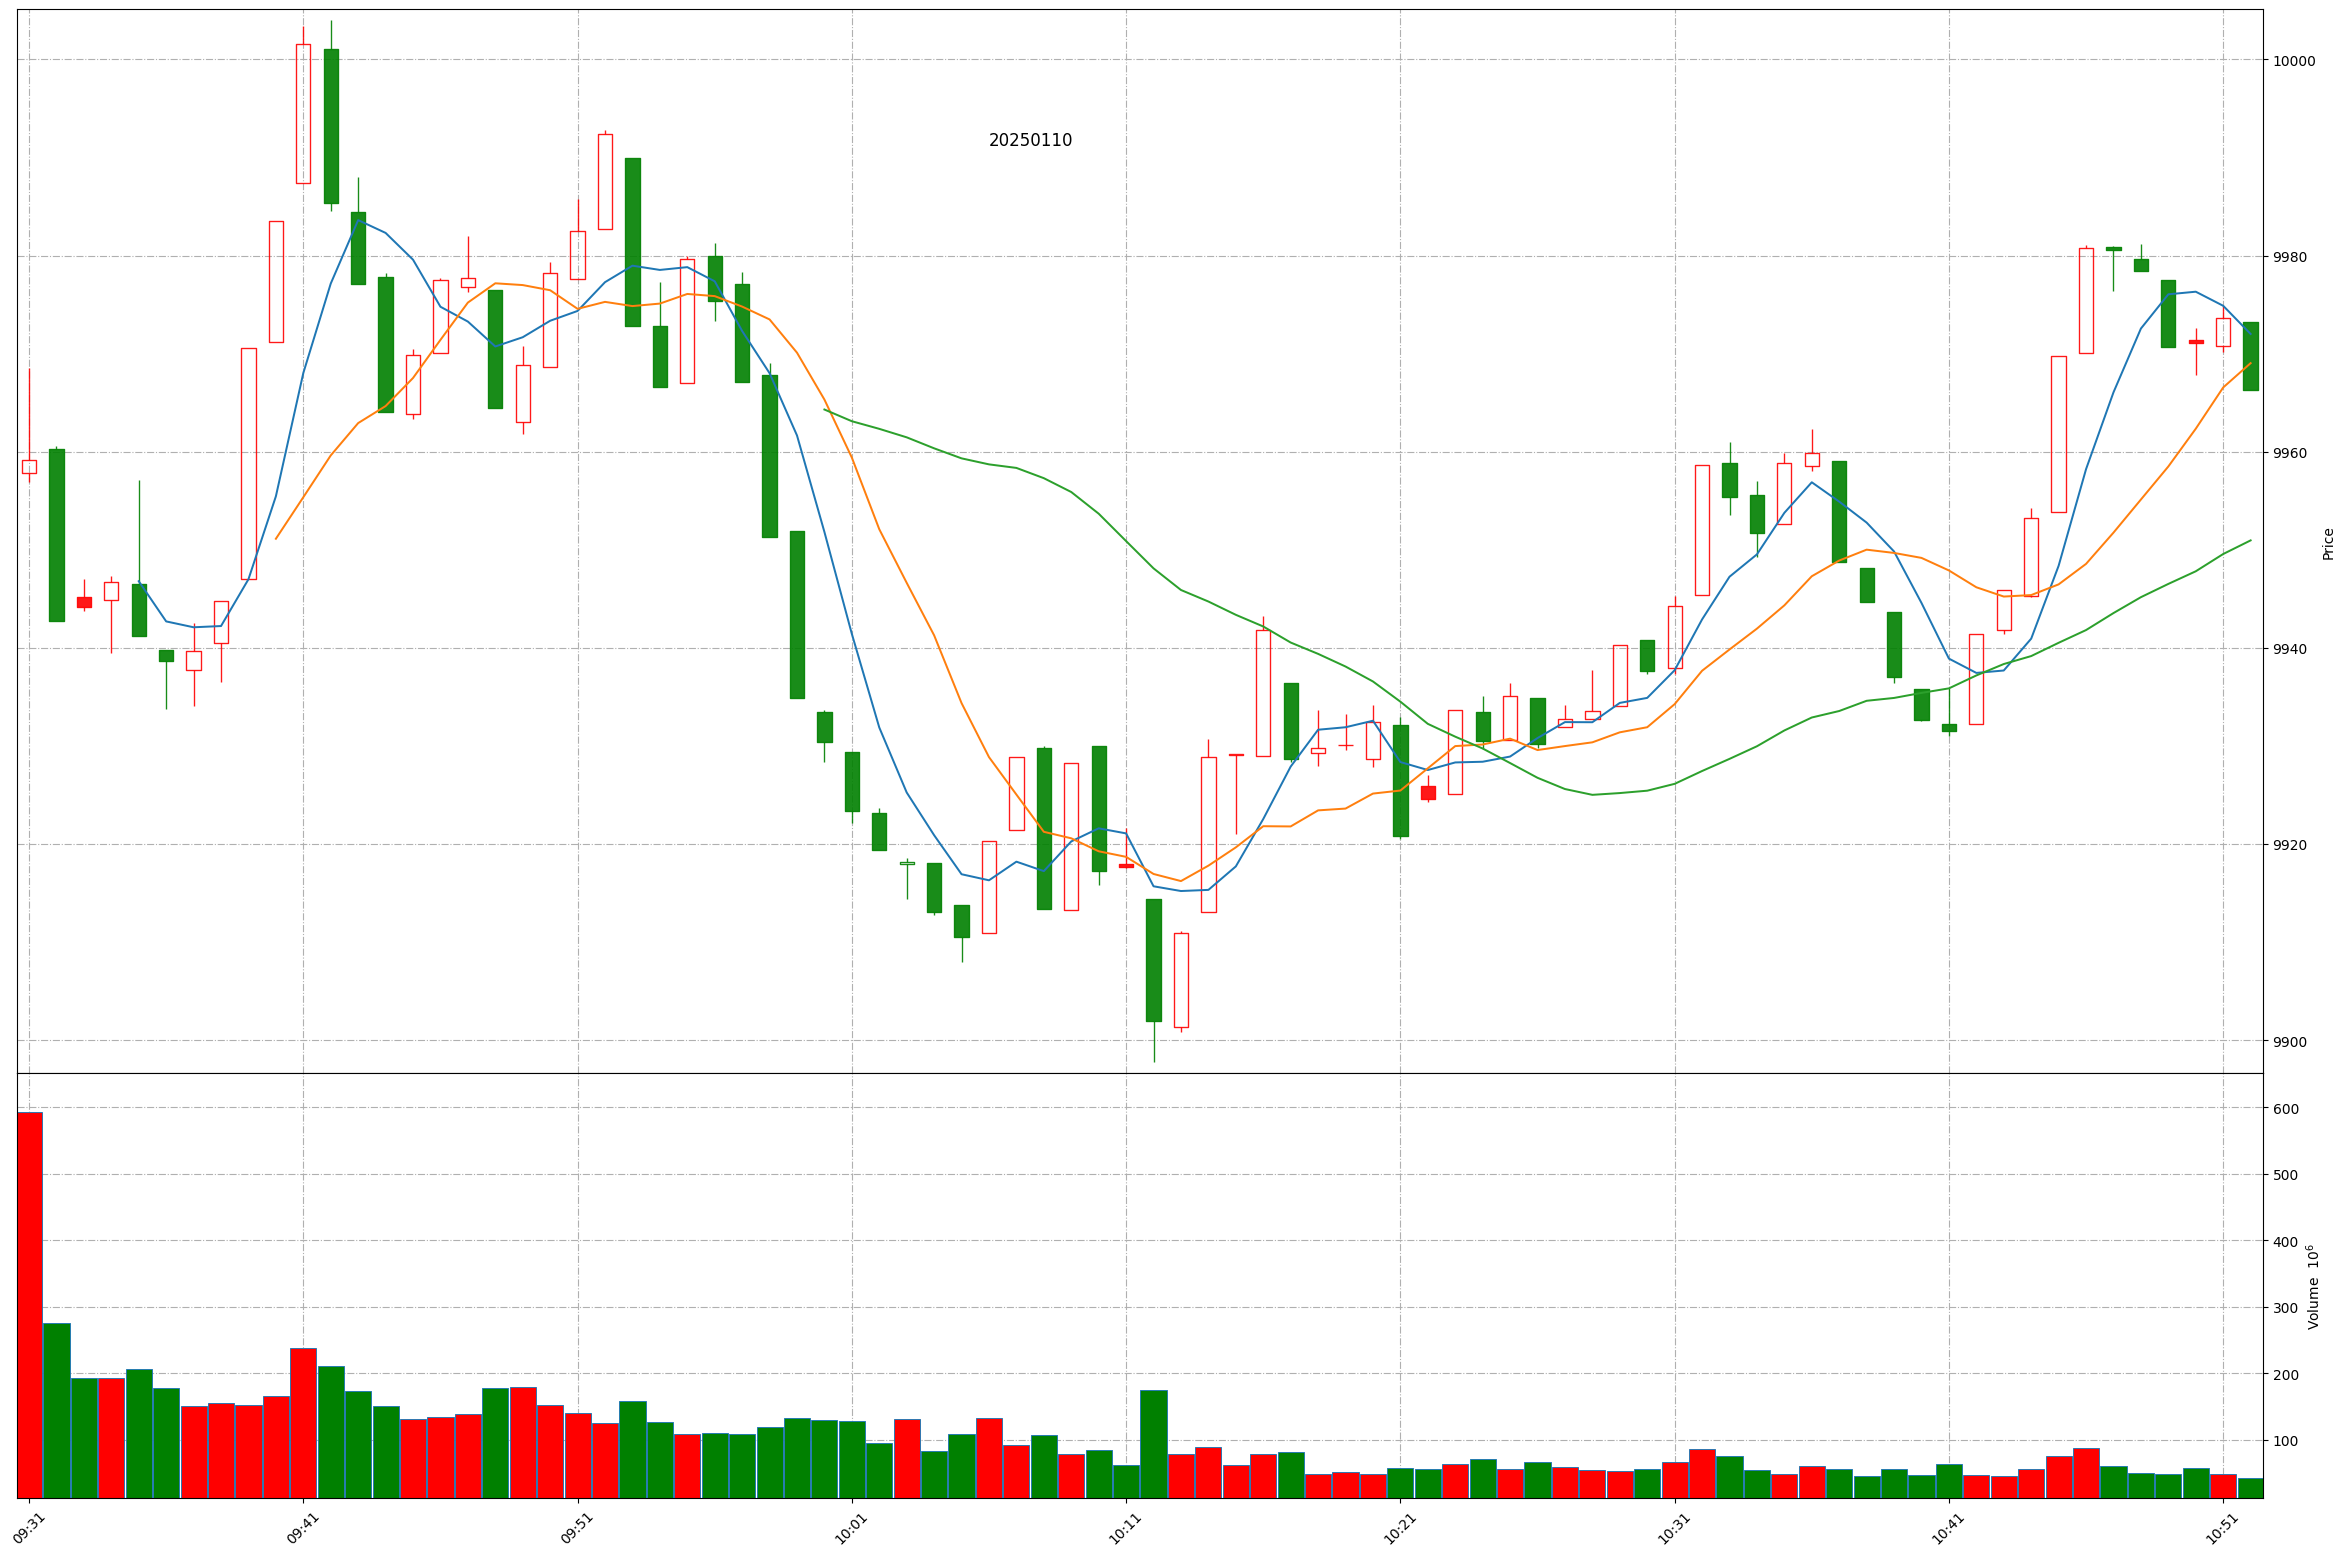
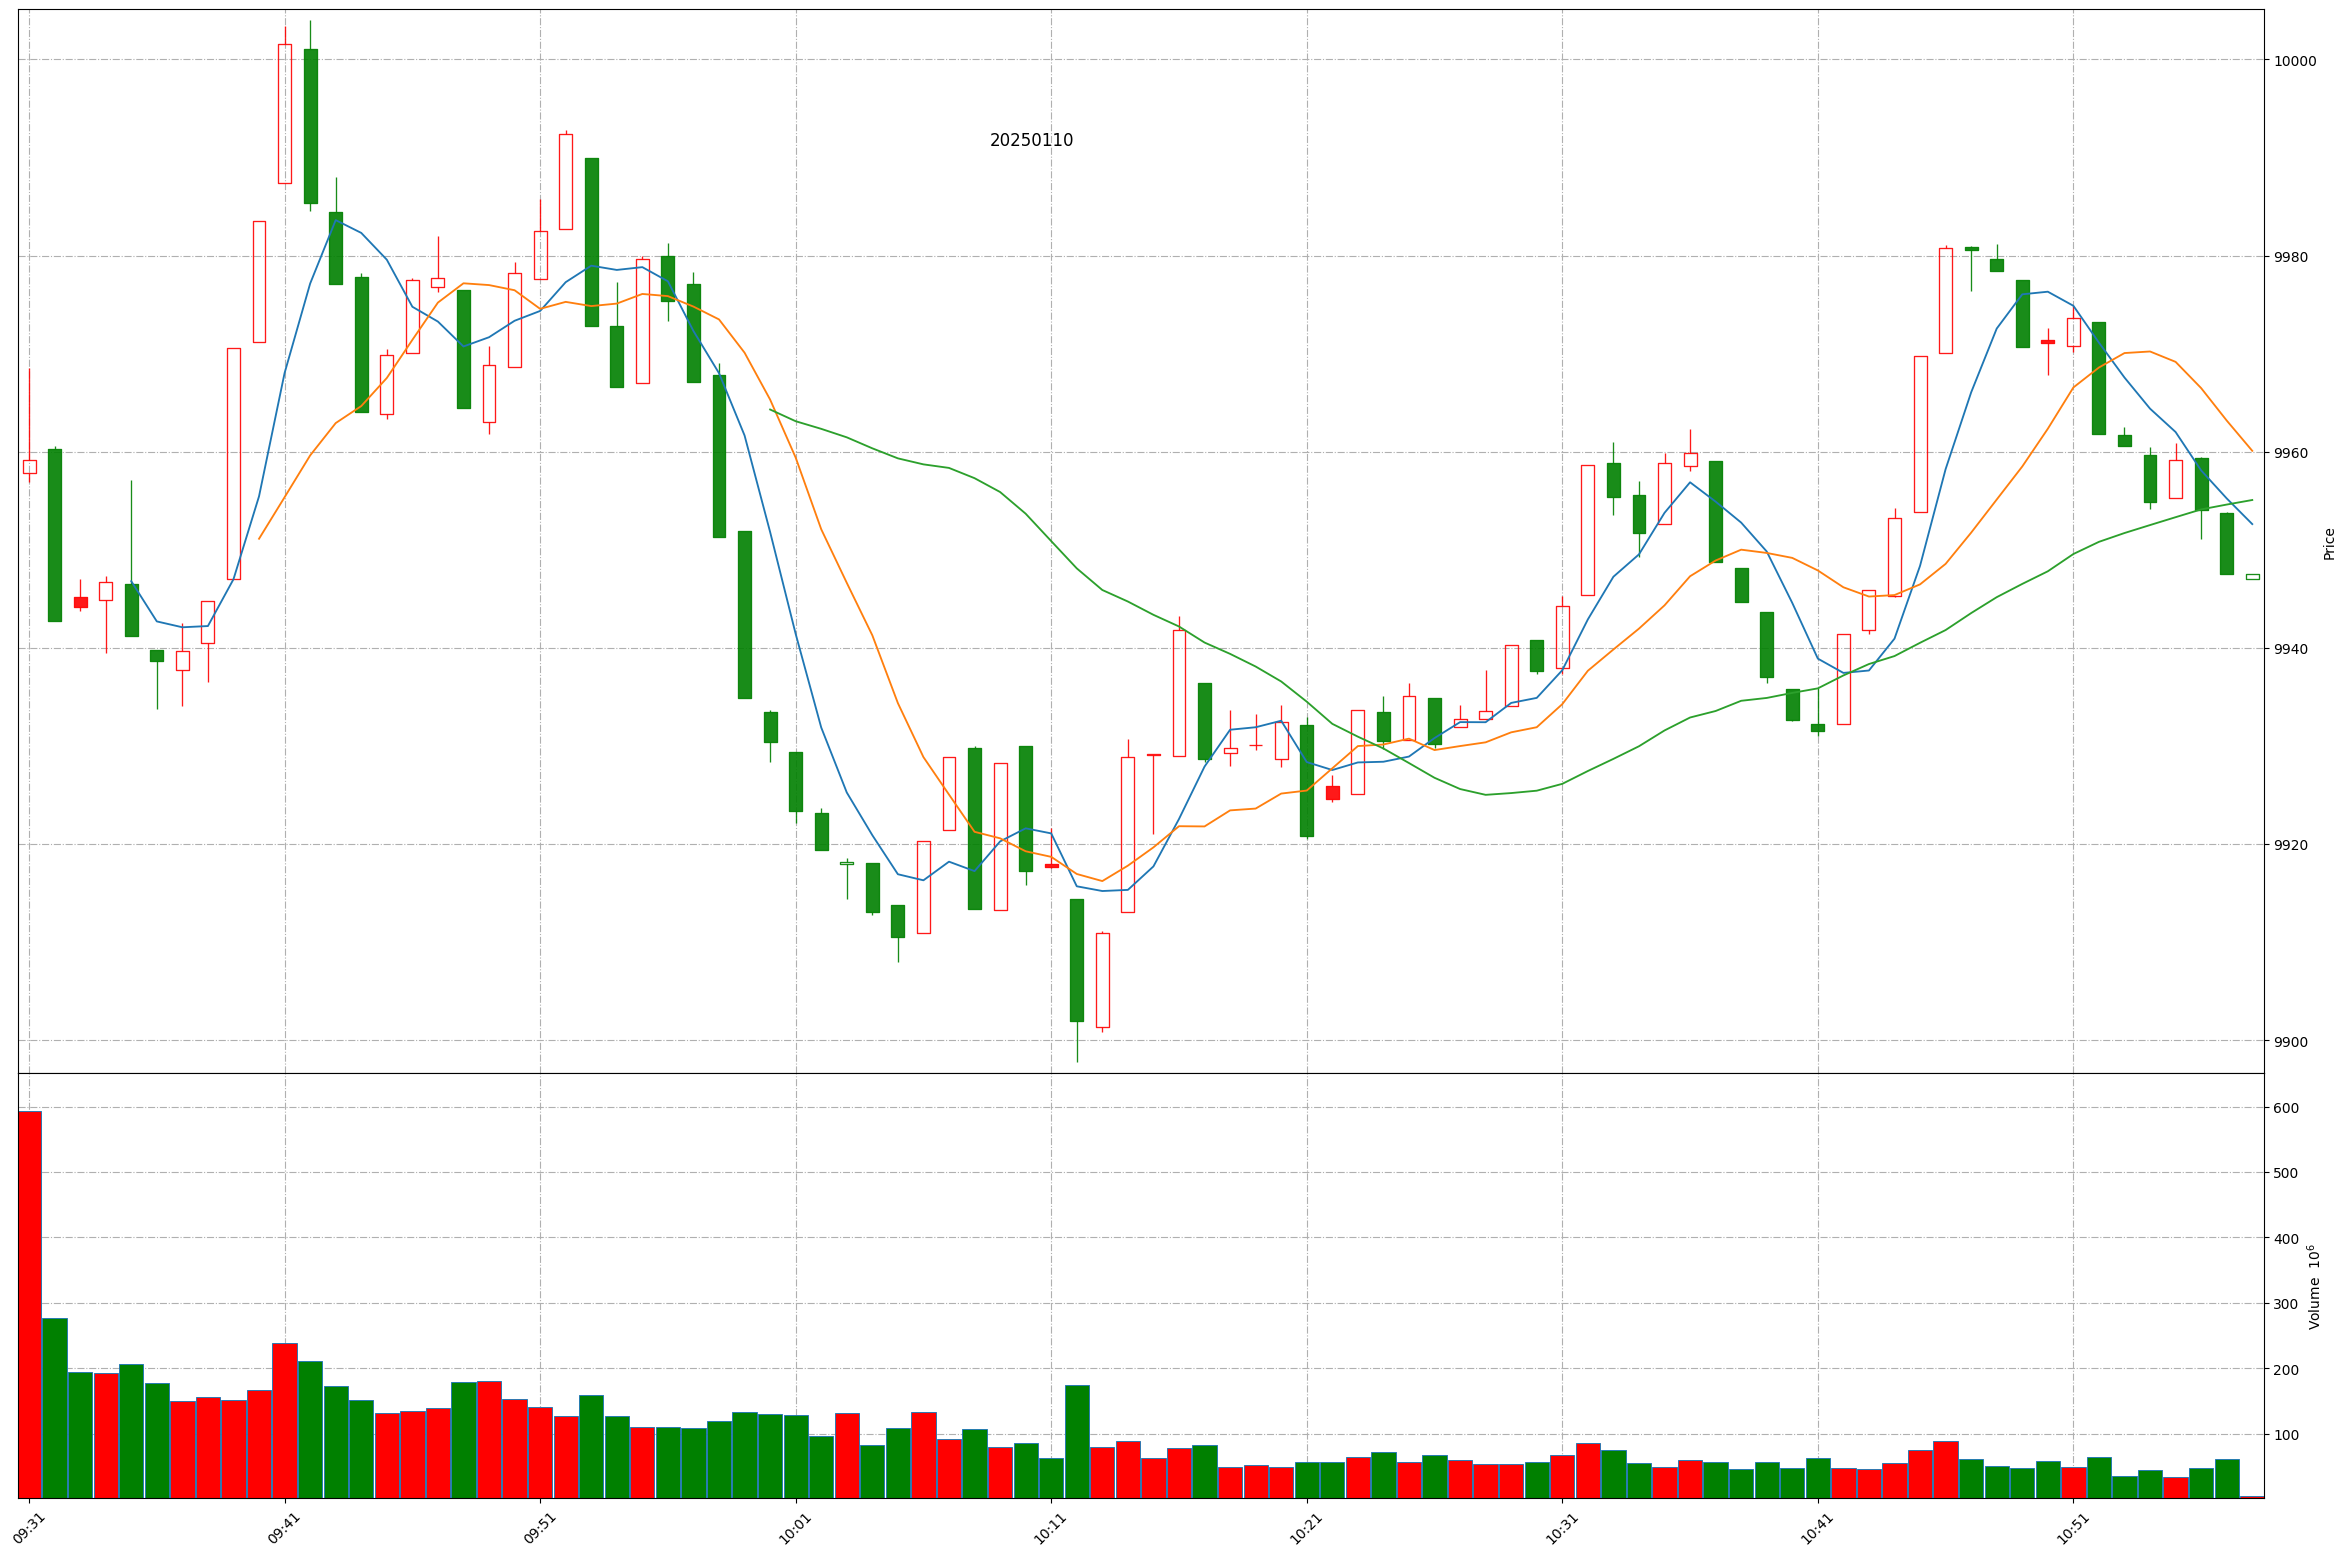
Github action update at 2025-01-10 10:57:22.

Changed region(s): [[0.0, 0.0308, 0.965, 0.6787], [0.0, 0.8329, 0.965, 0.9871]]

diff --git a/README.md b/README.md
@@ -1,11 +1,11 @@
 
 # Daily-A-share-market-quotes 每日 A 股指数（5min 更新）- 20250110
 
-### 上证指数 20250110 10:51
+### 上证指数 20250110 10:57
 ![](./fig/2025/1/20250110-sh000001.png)
 
-### 深证成指 20250110 10:51
+### 深证成指 20250110 10:57
 ![](./fig/2025/1/20250110-sz399001.png)
 
-### 北证50 20250110 10:51
+### 北证50 20250110 10:57
 ![](./fig/2025/1/20250110-bj899050.png)
